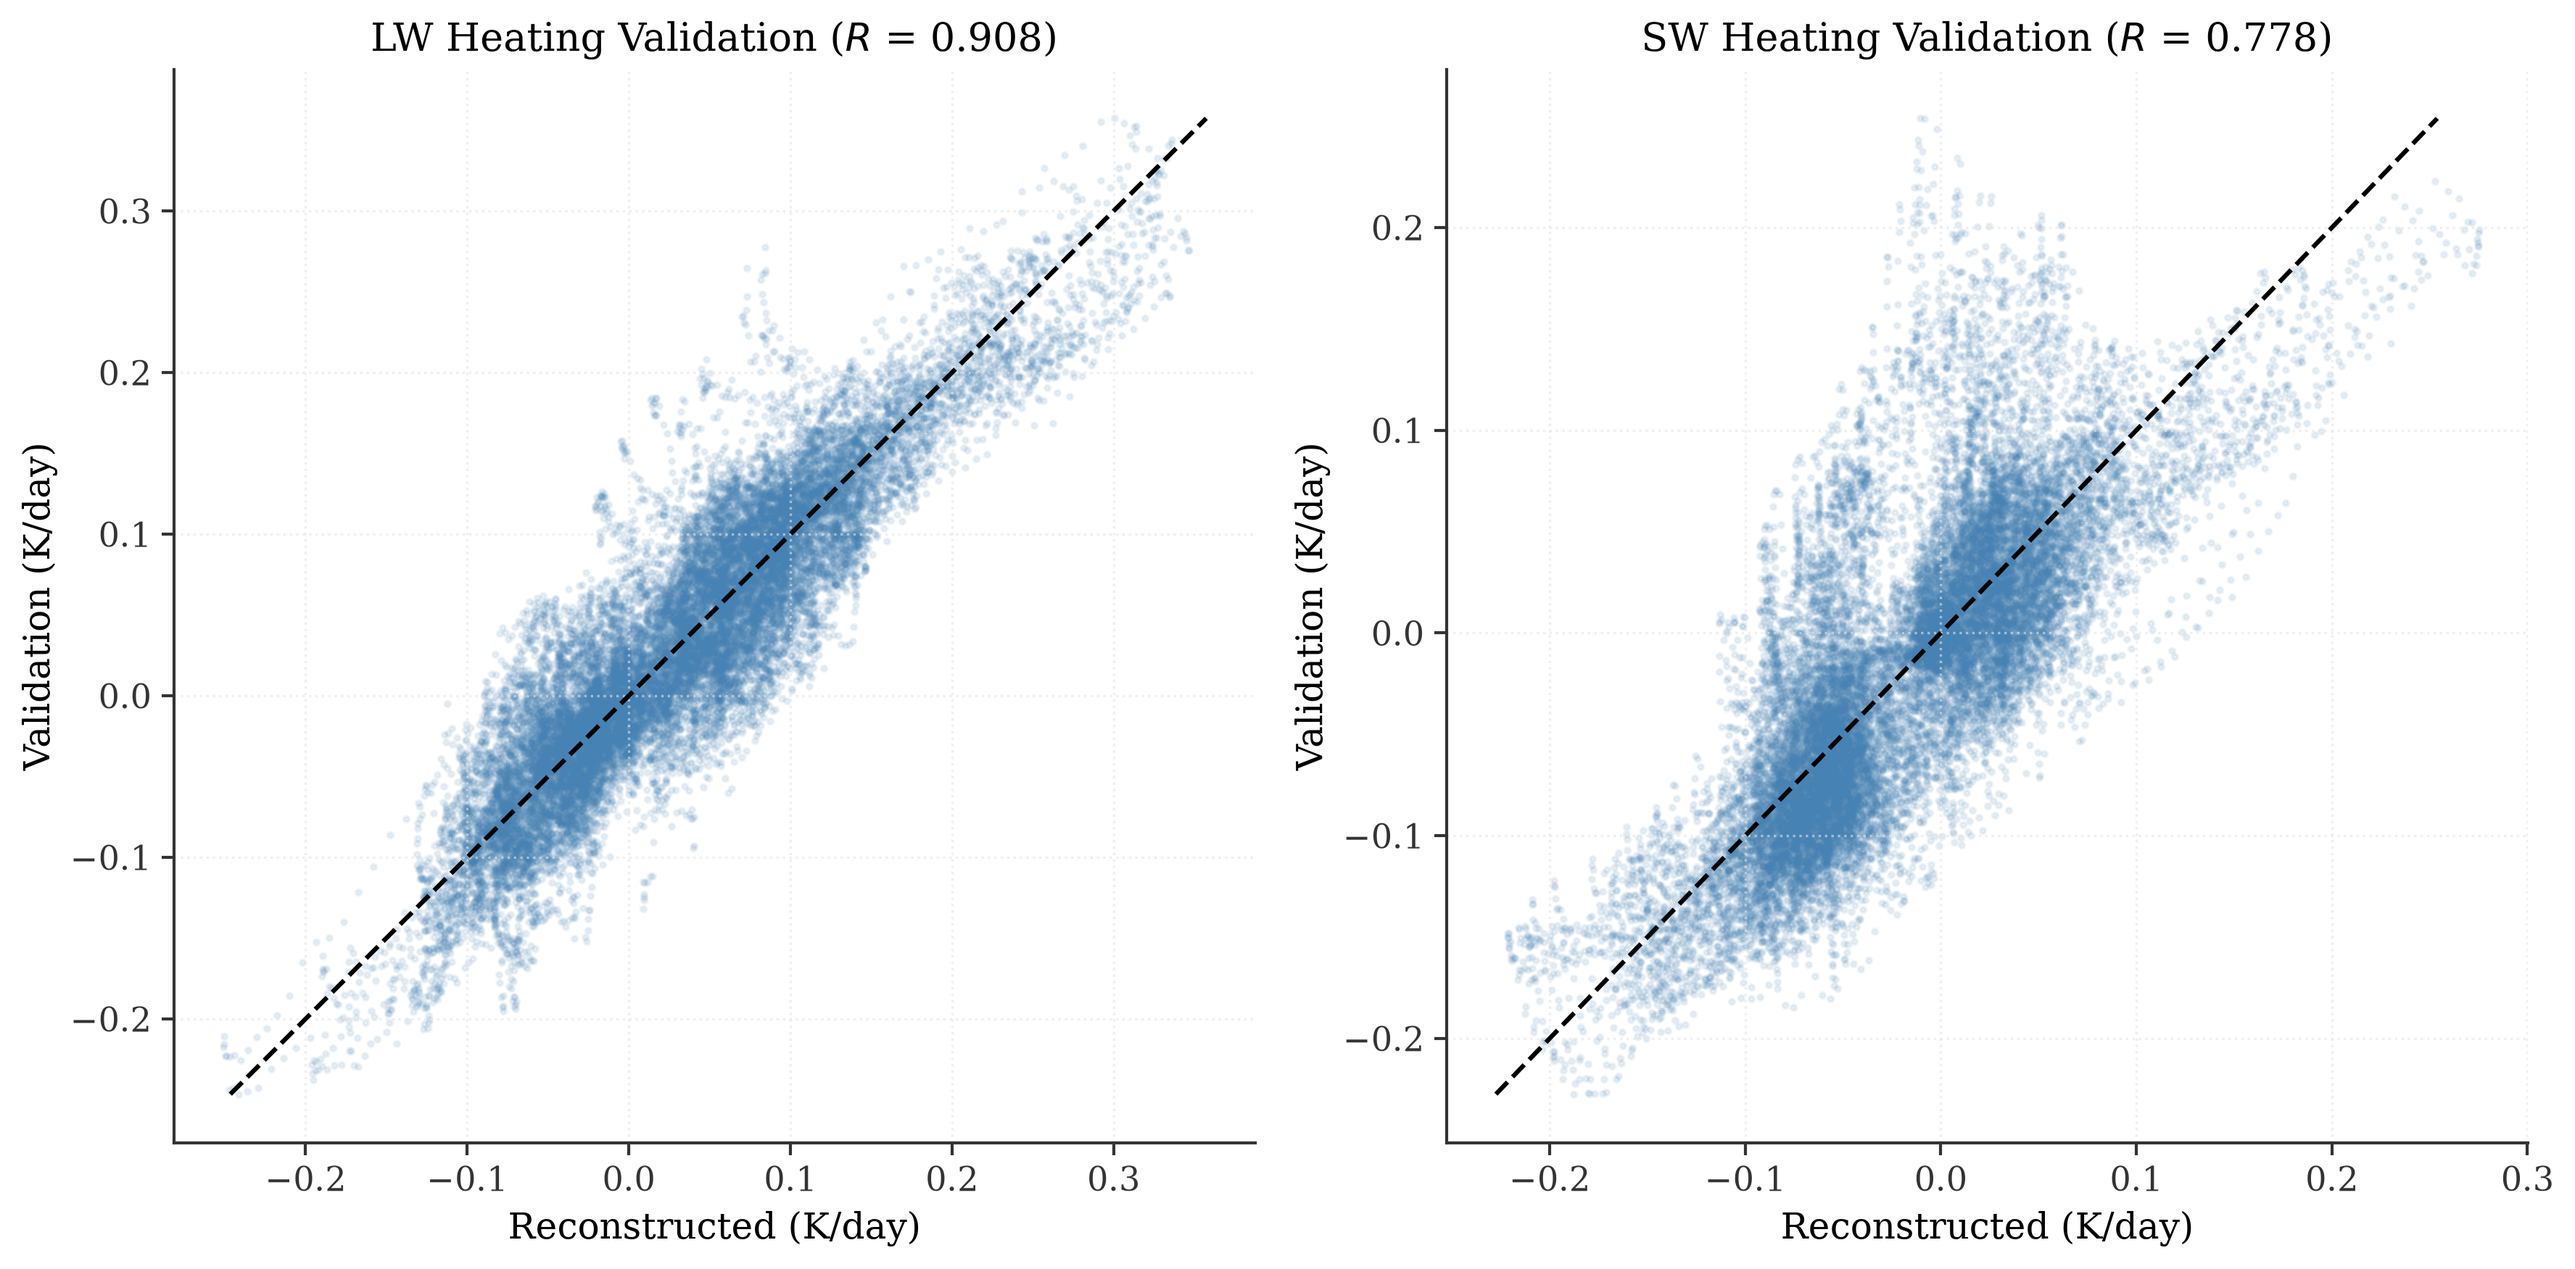
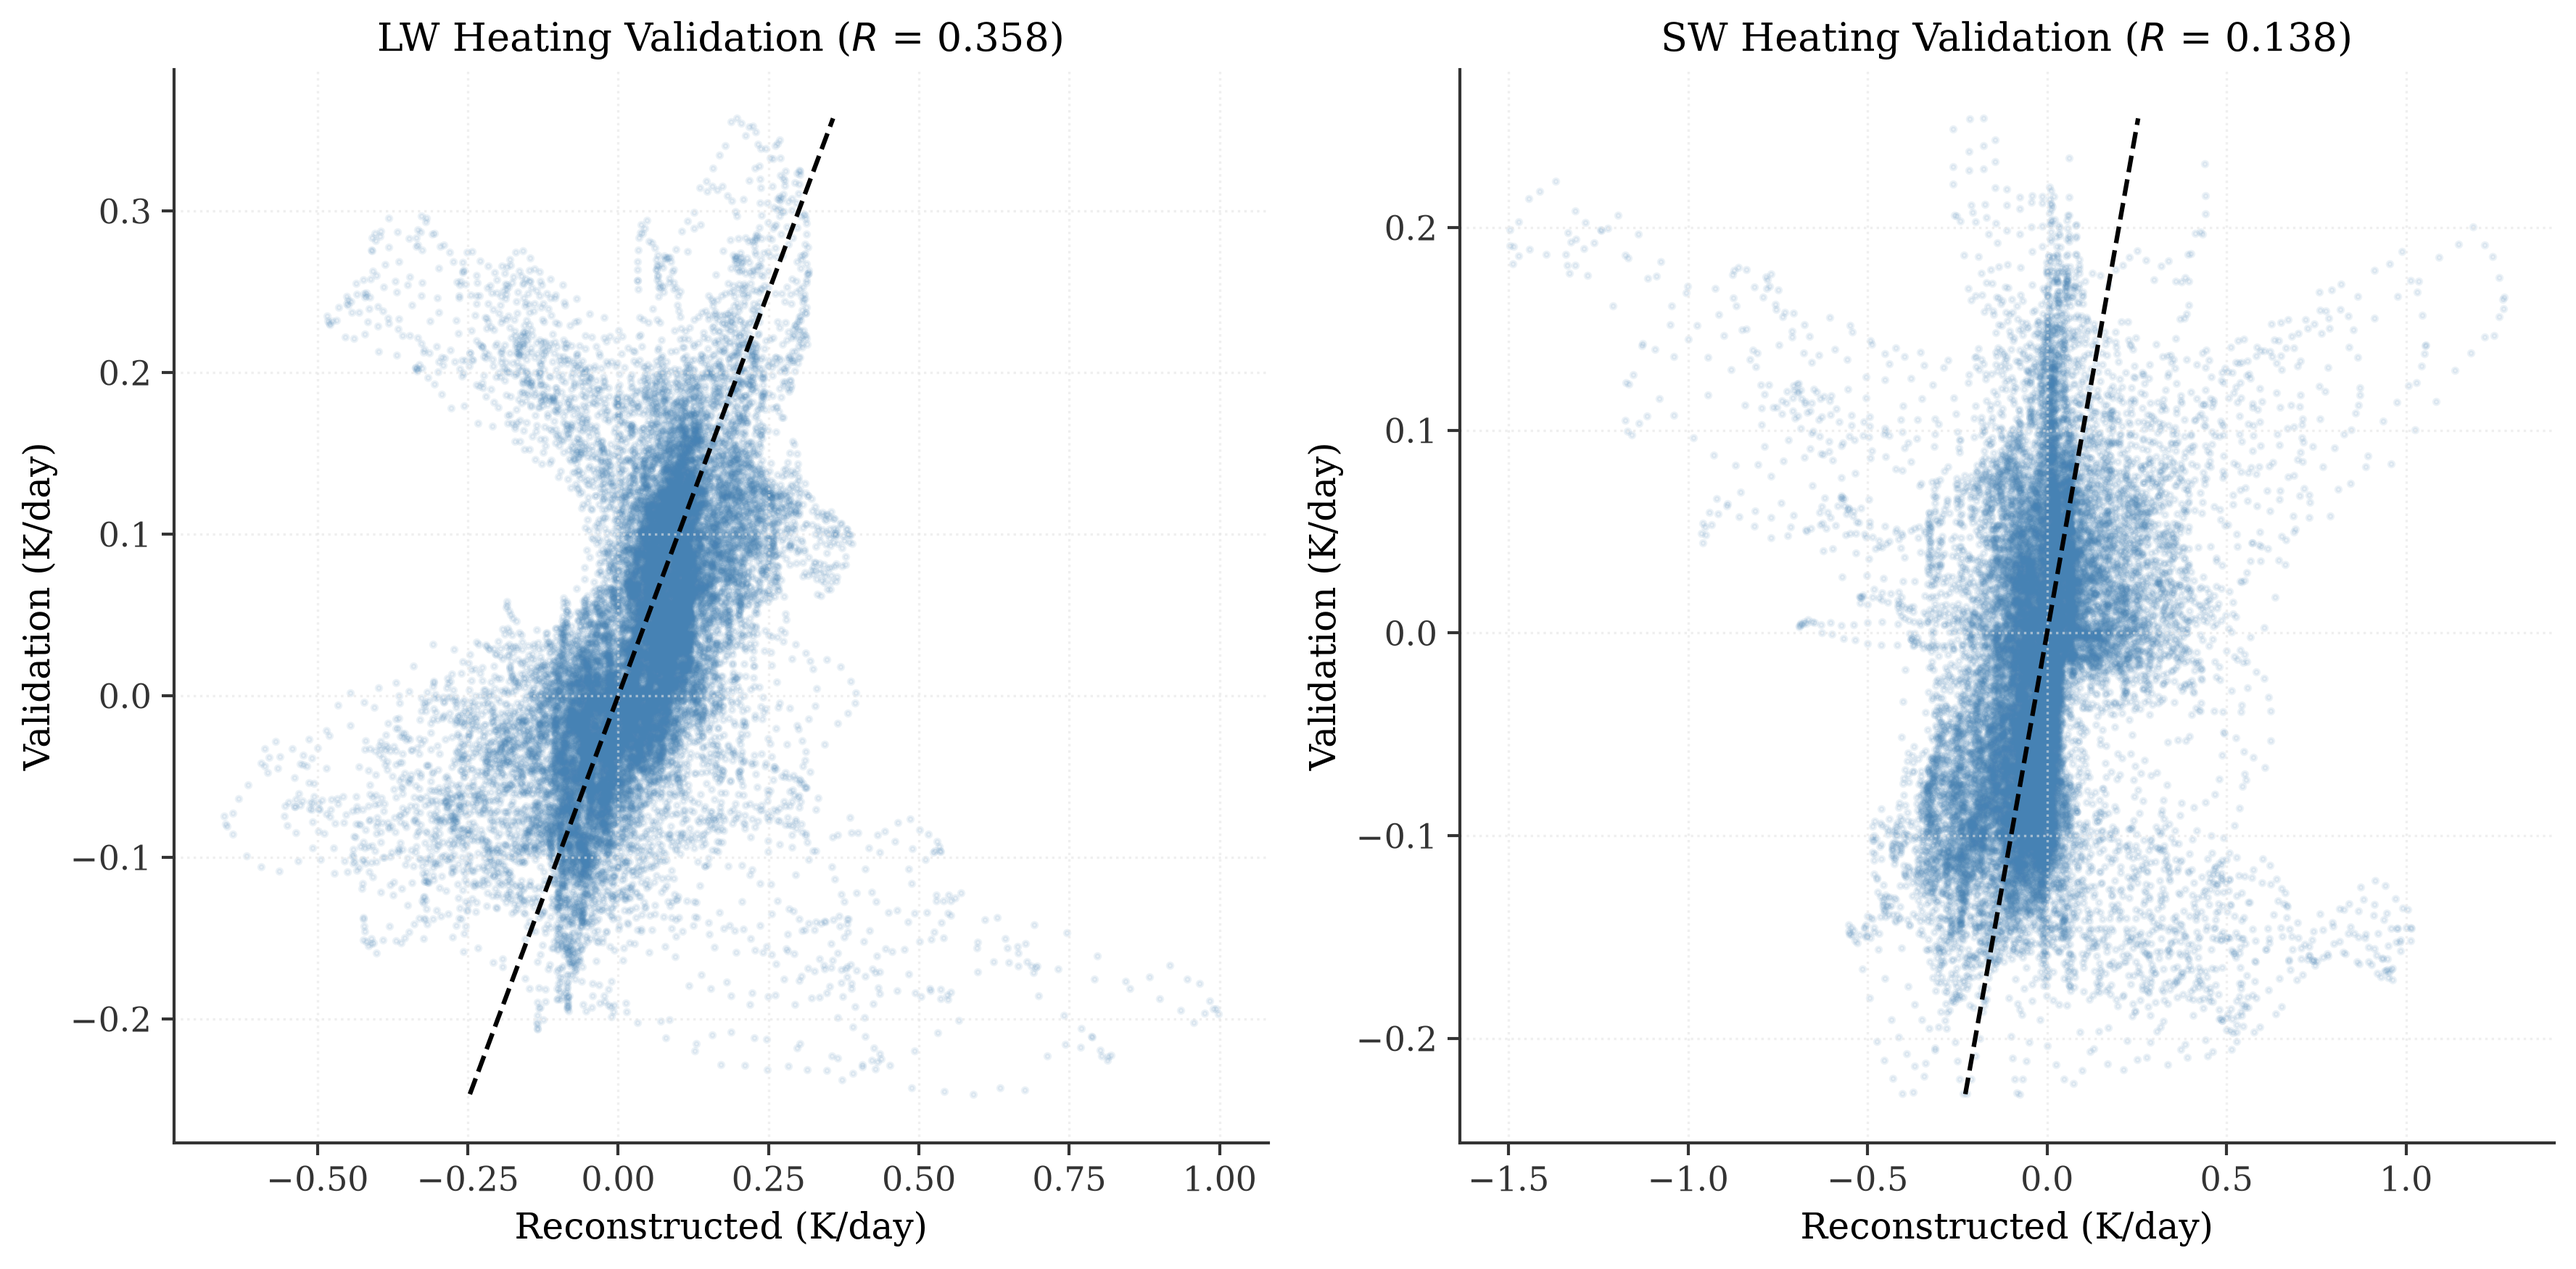
fix: correct PLS coefficient transpose and support multiple data types
- Transpose PLS regression coefficients (coef_.T) in QR_w_Relation.py to match expected matrix dimensions
- Refactor Rad_mode_predict.py and Rad_mode_verification.py to handle both 'concat' and 'composite' data types dynamically
- Correct gravity constant from 9.8 to 9.81 in Rad_mode_verification.py
- Ensure run_analysis.sh executes from its source directory
- Update output file paths to be dynamically scoped by data_type
- Update correlation_profile_stats.csv results based on corrected matrix calculations

diff --git a/Code/refactored/Rad_mode_verification.py b/Code/refactored/Rad_mode_verification.py
@@ -48,7 +48,13 @@ def main(data_type: str) -> None:
     file_dir: Path = root_dir / "Files"
 
     # Load vertical motion as dictionary
-    fname_w: List[str] = list(glob(str(file_dir / "w_composite/*.npy")))
+    match data_type:
+        case "concat":
+            fname_w: List[str] = list(glob(str(file_dir / "w_concate/*.npy")))
+        case "composite":
+            fname_w: List[str] = list(glob(str(file_dir / "w_composite/*.npy")))
+        case _:
+            raise ValueError(f"Invalid data_type: {data_type}. Must be 'concat' or 'composite'.")
 
     dx: float = 360.0 / 576.0 
 
@@ -60,32 +66,20 @@ def main(data_type: str) -> None:
     nz, nx = w["k=1~3"].shape
 
     # Load regression coefficient
-    folder_name = "Linear_Relation" if data_type == "concat" else "Linear_Relation_new"
-    reg_coeff: np.ndarray = np.load(file_dir / folder_name / "regress_coeff.npy").squeeze()
+    reg_coeff: np.ndarray = np.load(file_dir / "Linear_Relation" / data_type / "regress_coeff.npy").squeeze()
     
     # Load radiative heating profile
     fname_qr: List[str] = list(glob(str(file_dir / "QR_composite/k*")))
 
-    if data_type == "concat":
-        lw_valid: Dict[str, np.ndarray] = {
-                fname.split("/")[-1]: np.load(fname+"/LW.npy")[:, int(288-100/dx):int(288+100/dx)]
-                for fname in fname_qr
-                }
+    lw_valid: Dict[str, np.ndarray] = {
+            fname.split("/")[-1]: np.load(fname+f"/{data_type}/LW.npy")[:, int(288-100/dx):int(288+100/dx)]
+            for fname in fname_qr
+            }
 
-        sw_valid: Dict[str, np.ndarray] = {
-                fname.split("/")[-1]: np.load(fname+"/SW.npy")[:, int(288-100/dx):int(288+100/dx)]
-                for fname in fname_qr
-                }
-    else:
-        lw_valid: Dict[str, np.ndarray] = {
-                fname.split("/")[-1]: np.load(fname+"/composite/LW.npy")[:, int(288-100/dx):int(288+100/dx)]
-                for fname in fname_qr
-                }
-
-        sw_valid: Dict[str, np.ndarray] = {
-                fname.split("/")[-1]: np.load(fname+"/composite/SW.npy")[:, int(288-100/dx):int(288+100/dx)]
-                for fname in fname_qr
-                }
+    sw_valid: Dict[str, np.ndarray] = {
+            fname.split("/")[-1]: np.load(fname+f"/{data_type}/SW.npy")[:, int(288-100/dx):int(288+100/dx)]
+            for fname in fname_qr
+            }
 
 
     # ------------------------------------------------
@@ -146,10 +140,10 @@ def main(data_type: str) -> None:
     # reconstruct to vertical profile
     # ------------------------------------------------
 
-    lw1_z: np.ndarray = np.einsum("s,z->sz", lw1, G1) * (9.8/1004.5 - 0.0065)
-    lw2_z: np.ndarray = np.einsum("s,z->sz", lw2, G2) * (9.8/1004.5 - 0.0065)
-    sw1_z: np.ndarray = np.einsum("s,z->sz", sw1, G1) * (9.8/1004.5 - 0.0065)
-    sw2_z: np.ndarray = np.einsum("s,z->sz", sw2, G2) * (9.8/1004.5 - 0.0065)
+    lw1_z: np.ndarray = np.einsum("s,z->sz", lw1, G1) * (9.81/1004.5 - 0.0065)
+    lw2_z: np.ndarray = np.einsum("s,z->sz", lw2, G2) * (9.81/1004.5 - 0.0065)
+    sw1_z: np.ndarray = np.einsum("s,z->sz", sw1, G1) * (9.81/1004.5 - 0.0065)
+    sw2_z: np.ndarray = np.einsum("s,z->sz", sw2, G2) * (9.81/1004.5 - 0.0065)
 
     lw_z: np.ndarray = (lw1_z + lw2_z) / rho[None, :]
     sw_z: np.ndarray = (sw1_z + sw2_z) / rho[None, :]
@@ -197,8 +191,7 @@ def main(data_type: str) -> None:
         axes[i].grid(True, linestyle=':', alpha=0.6)
 
     plt.tight_layout()
-    fig_folder = "Rad_mode_verification" if data_type == "concat" else "Rad_mode_verification_new"
-    fig_path = root_dir / "Figure" / fig_folder
+    fig_path = root_dir / "Figure" / "Rad_mode_verification" / data_type
     os.makedirs(fig_path, exist_ok=True)
     plt.savefig(fig_path / "scatter_verify.png", dpi=300, bbox_inches="tight")
     plt.close(fig)

diff --git a/Code/refactored/Rad_mode_predict.py b/Code/refactored/Rad_mode_predict.py
@@ -43,9 +43,14 @@ def main(data_type: str) -> None:
     # Load Jacobian Matrix
     # ------------------------------------------------
 
-    root_dir : Path = Path("/home/b11209013/KW_CloudSat/")
-    folder_name = "Linear_Relation" if data_type == "concat" else "Linear_Relation_new"
-    input_dir: Path = root_dir / "Files" / folder_name
+    root_dir: Path = Path("/home/b11209013/KW_CloudSat/")
+
+    match data_type:
+        case "concat" | "composite":
+            input_dir = root_dir / "Files" / "Linear_Relation" / data_type
+            fig_name = f"Rad_mode_predict_{data_type}.png"
+        case _:
+            raise ValueError(f"Invalid data_type: {data_type}. Must be 'concat' or 'composite'.")
 
     M_lw: np.ndarray = np.load(input_dir / "M_lw.npy")
     M_sw: np.ndarray = np.load(input_dir / "M_sw.npy")
@@ -162,7 +167,7 @@ def main(data_type: str) -> None:
 
     plt.tight_layout()
     
-    save_path = root_dir / "Figure" / "Rad_mode_predict.png"
+    save_path = root_dir / "Figure" / fig_name
     plt.savefig(save_path, dpi=300, bbox_inches="tight")
     plt.close(fig)
     print(f"Visualization saved to {save_path}")
@@ -172,8 +177,7 @@ def main(data_type: str) -> None:
     # ------------------------------------------------
 
     # file path
-    folder_name = "Linear_Relation" if data_type == "concat" else "Linear_Relation_new"
-    output_path: Path = root_dir / "Files" / folder_name
+    output_path = input_dir
 
     output_arr: np.ndarray = np.array([lw_w1_coeff, lw_w2_coeff, sw_w1_coeff, sw_w2_coeff])
 

diff --git a/Code/refactored/QR_w_Relation.py b/Code/refactored/QR_w_Relation.py
@@ -137,8 +137,8 @@ def main(data_type: str) -> None:
     # Extract Jacobian Matrices (equivalent to the M_lw and M_sw matrices)
     # PLS prediction is internally: Y_pred = (X - X_mean) @ coef_ + Y_mean
     # Since we want M_lw such that M_lw @ w.T matches this, we transpose coef_
-    M_lw: np.ndarray = pls_lw.coef_
-    M_sw: np.ndarray = pls_sw.coef_
+    M_lw: np.ndarray = pls_lw.coef_.T
+    M_sw: np.ndarray = pls_sw.coef_.T
 
     # ------------------------------------------------
     # Verifying
